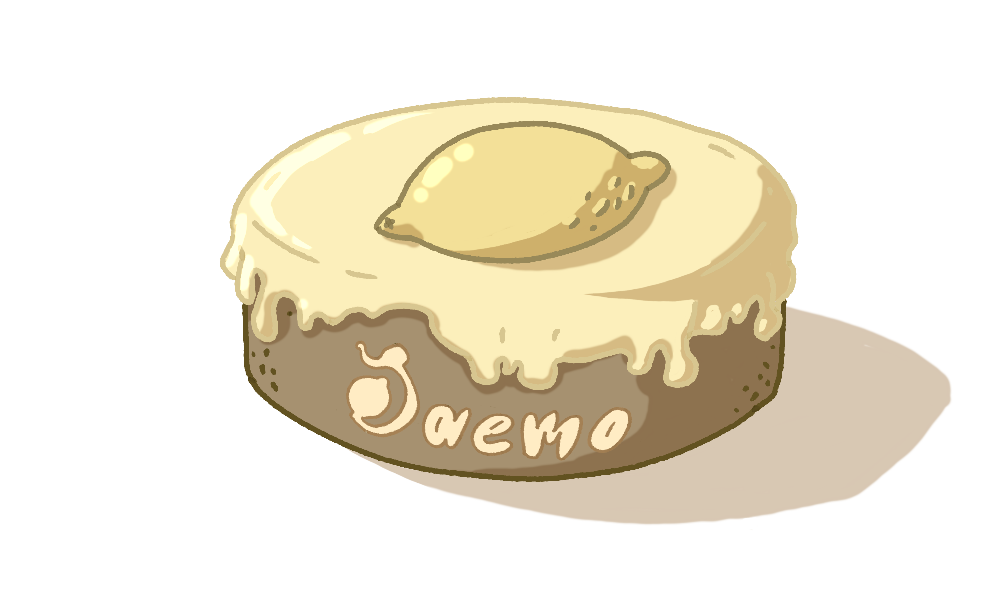
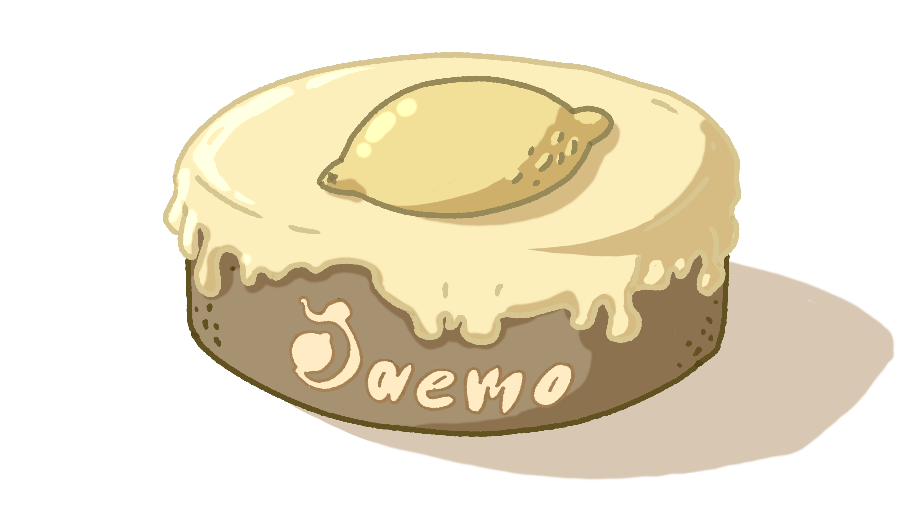
size

diff --git a/paper.html b/paper.html
@@ -144,7 +144,7 @@
                 <h3>3.1 Experimental Setup</h3>
                 <div class="figure-container">
                     <div class="figure-content-wrapper" id="figure1">
-                        <img src="LemonCake.PNG" alt="Optical image of the lemon cake sample" class="lemon-cake-img" style="max-width: 60%; border: 4px solid white;">
+                        <img src="LemonCake.PNG" alt="Optical image of the lemon cake sample" class="lemon-cake-img" style="max-width: 80%; border: 4px solid white;">
                     </div>
                     <p class="figure-caption">
                         Figure 1: Optical micrograph of the bespoke lemon cake lattice synthesized by specialist confectionery artisan 
